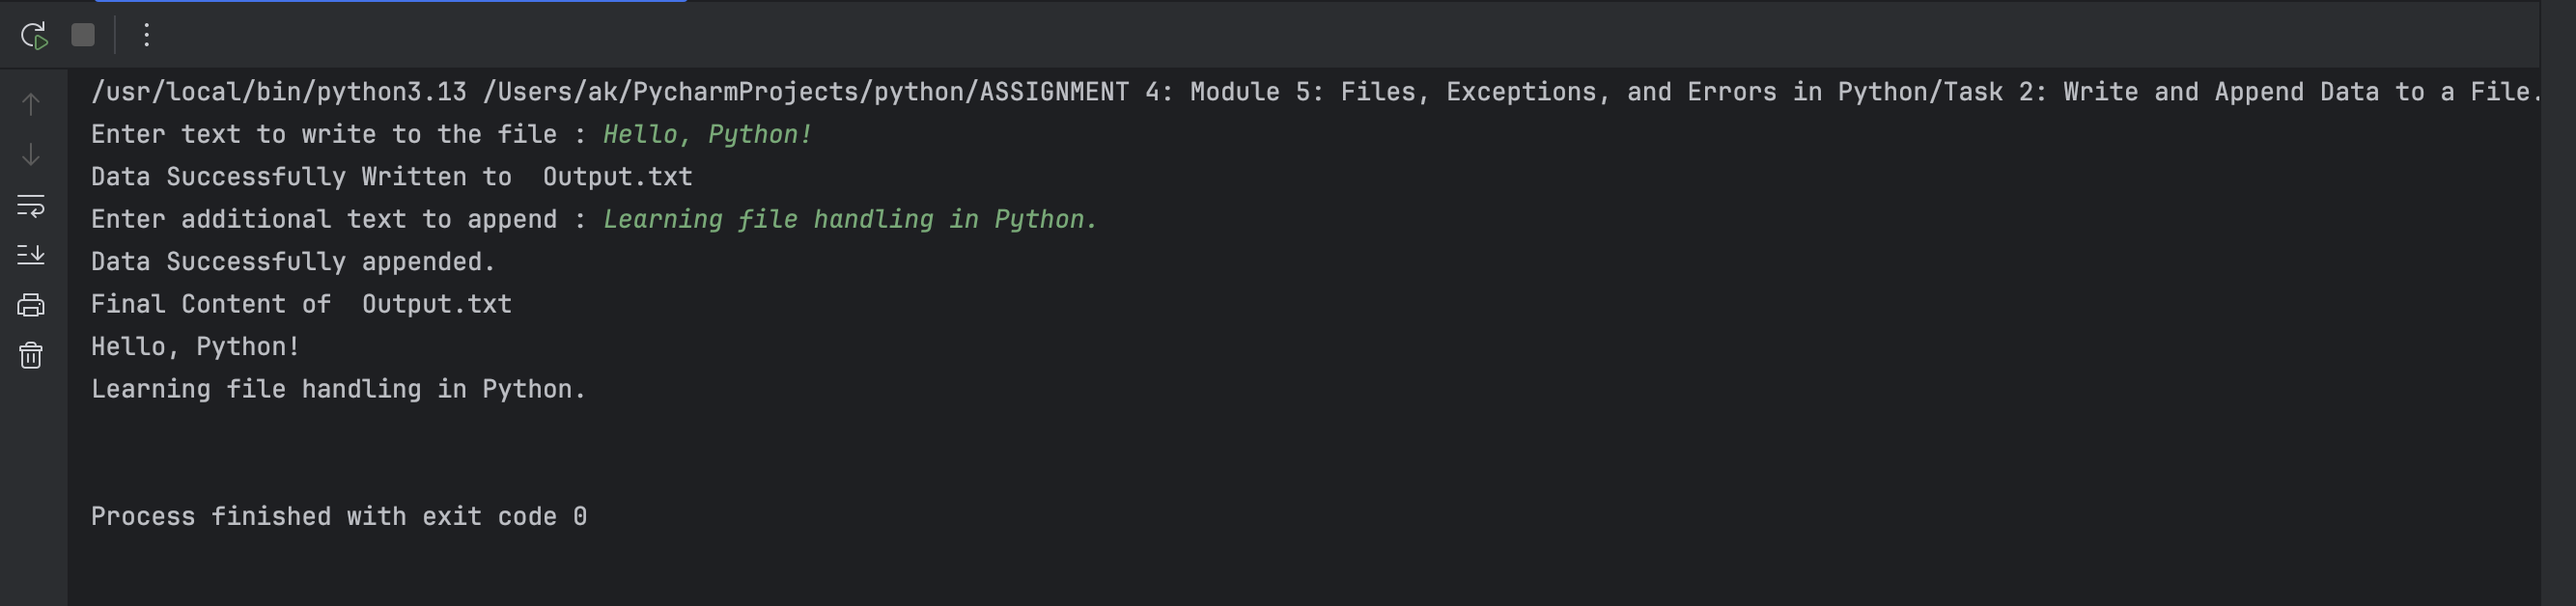
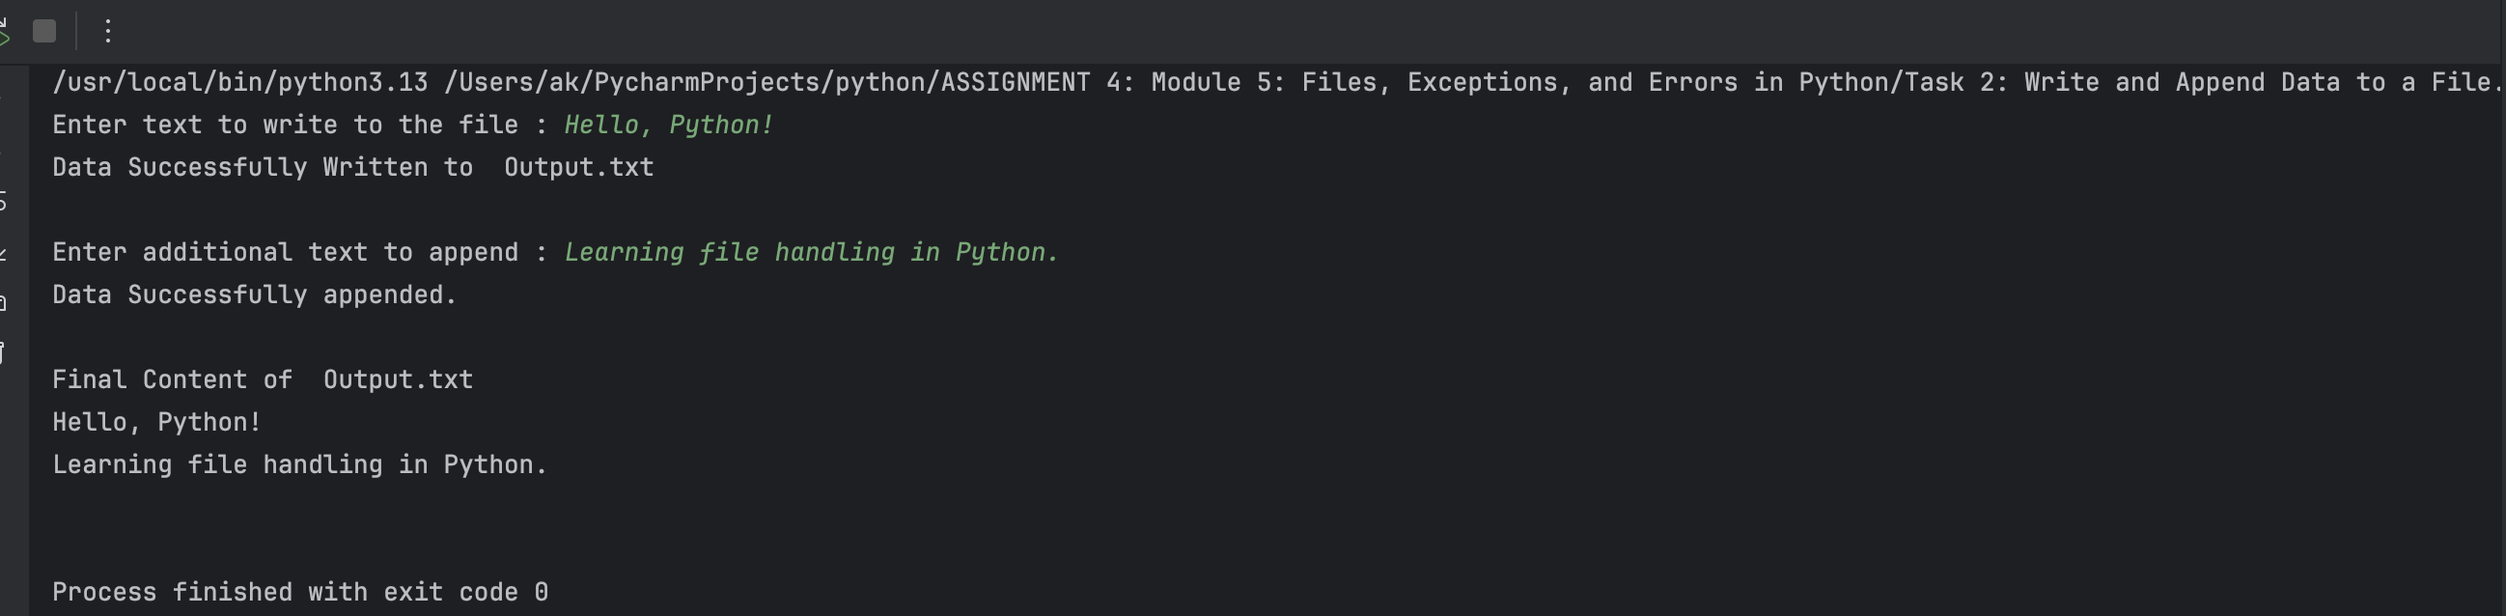
Assignment 4 ReadMe Update

diff --git a/ASSIGNMENT 4: Module 5: Files, Exceptions, and Errors in Python/Task 2: Write and Append Data to a File.py b/ASSIGNMENT 4: Module 5: Files, Exceptions, and Errors in Python/Task 2: Write and Append Data to a File.py
@@ -3,9 +3,9 @@ file = None
 try:
     file = open(fileName, "r+")
     file.write(input("Enter text to write to the file : ")+ "\n")
-    print("Data Successfully Written to ",fileName)
+    print("Data Successfully Written to ",fileName,"\n")
     file.write(input("Enter additional text to append : ")+ "\n")
-    print("Data Successfully appended.")
+    print("Data Successfully appended.\n")
     # Move file pointer to beginning before reading
     file.seek(0)
     print("Final Content of ",fileName)

diff --git a/ASSIGNMENT 4: Module 5: Files, Exceptions, and Errors in Python/README.md b/ASSIGNMENT 4: Module 5: Files, Exceptions, and Errors in Python/README.md
@@ -1,0 +1,81 @@
+# Python Task Submission
+# Module 5: Files, Exceptions, and Errors in Python
+
+
+
+This repository contains two Python programs that perform basic tasks using user input.
+
+## Task 1: Read a File and Handle Errors
+
+### Problem Statement
+Write a Python program that:
+1. Attempts to open and read the contents of a file named `sample.txt`.
+2. Handles the case where the file does not exist by displaying an appropriate error message.
+3. Ensures the file is properly closed after reading, even if an error occurs.
+
+## Explanation
+This program demonstrates file handling and exception management in Python. It tries to open `sample.txt` for reading. If the file is found, it prints its contents. If the file is not found, it catches the `FileNotFoundError` and prints an error message. The `finally` block ensures the file is closed if it was successfully opened.
+
+## Expected Output
+If `sample.txt` exists:
+```
+Reading File Content :
+Line 1: This is a sample text file.
+Line 2: It contains multiple lines.
+```
+If `sample.txt` does not exist:
+```
+Error : The file sample.txt  not found
+```
+
+## How to Run
+1. Make sure Python is installed.
+2. Place a file named `sample.txt` in the same directory as the script (or test the error handling by omitting the file).
+3. Open a terminal and navigate to the project directory.
+4. Run the script using:
+   ```bash
+   python "Task 1: Read a File and Handle Errors.py"
+   ```
+
+## File Included
+- `Task 1: Read a File and Handle Errors.py` – Code to read a file and handle errors if the file
+
+
+
+
+
+
+## Task 2: Write and Append Data to a File
+
+### Problem Statement
+Write a Python program that:
+1. Opens a file named `Output.txt` for reading and writing.
+2. Prompts the user to enter text, writes this text to the file, and confirms the action.
+3. Prompts the user to enter additional text, appends this text to the file, and confirms the action.
+4. Reads and displays the final content of the file.
+5. Ensures the file is properly closed after all operations.
+
+## Explanation
+This program demonstrates how to write to, append to, and read from a file in Python. It uses the `r+` mode to allow both reading and writing. The program first writes user input to the file, then appends more input, and finally reads and prints the entire file content. The file is closed safely at the end.
+
+## Expected Output
+```
+Enter text to write to the file : Hello, Python!
+Data Successfully Written to  Output.txt
+Enter additional text to append : Learning file handling in Python.
+Data Successfully appended.
+Final Content of  Output.txt
+Hello, Python!
+Learning file handling in Python.
+```
+
+## How to Run
+1. Make sure Python is installed.
+2. Open a terminal and navigate to the project directory.
+3. Run the script using:
+   ```bash
+   python "Task 2: Write and Append Data to a File.py"
+   ```
+
+## File Included
+- `Task 2: Write and Append Data to a File.py` – Code to write, append, and read data from a file.
